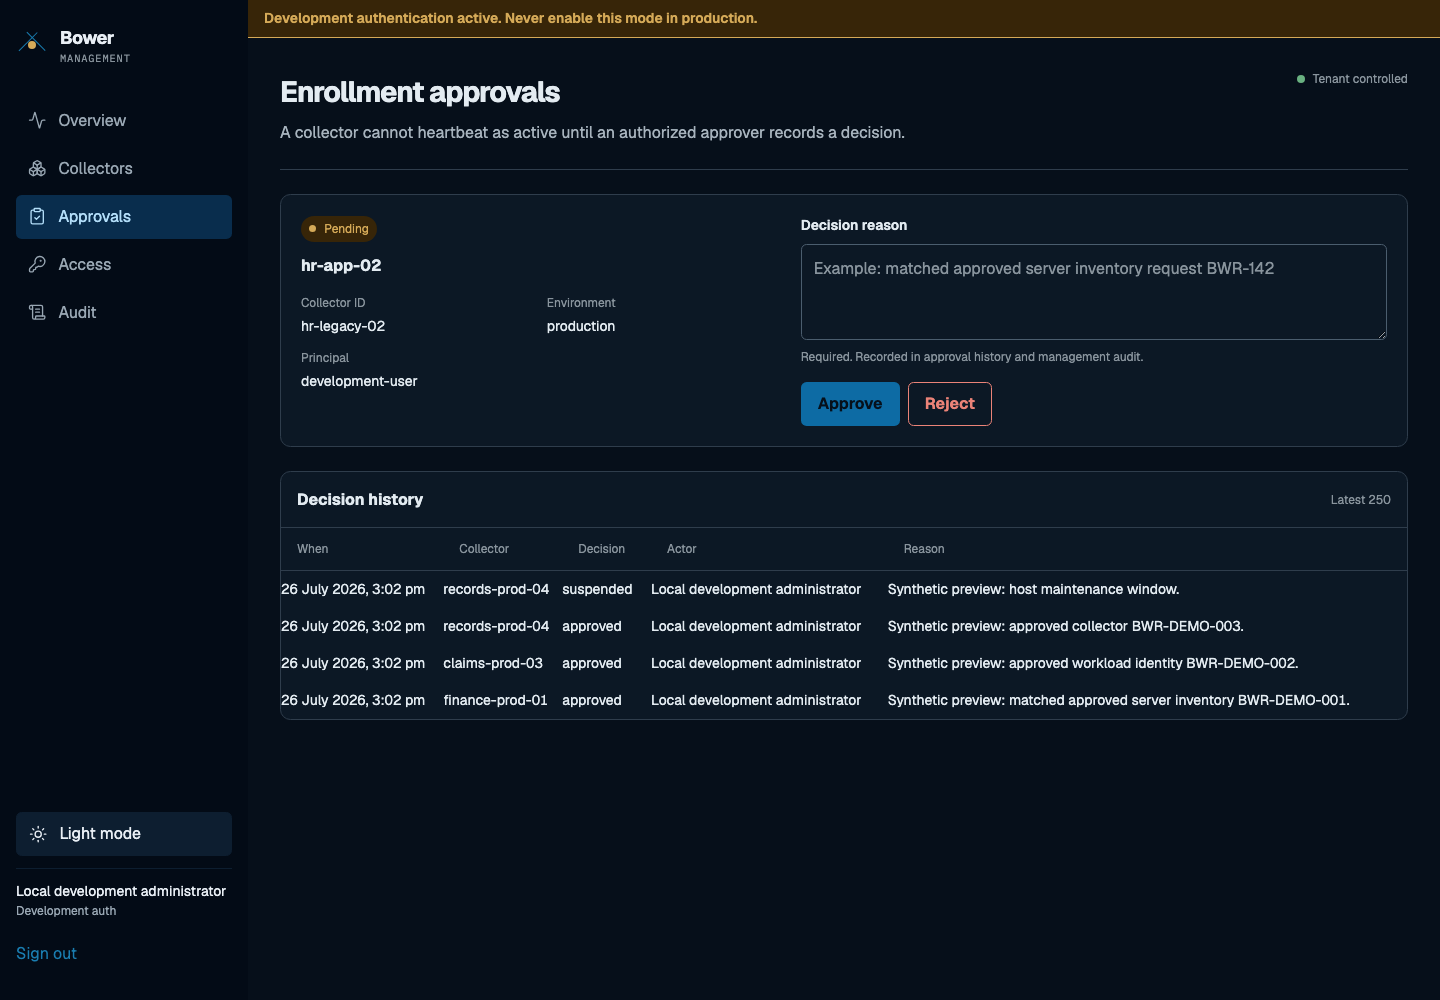
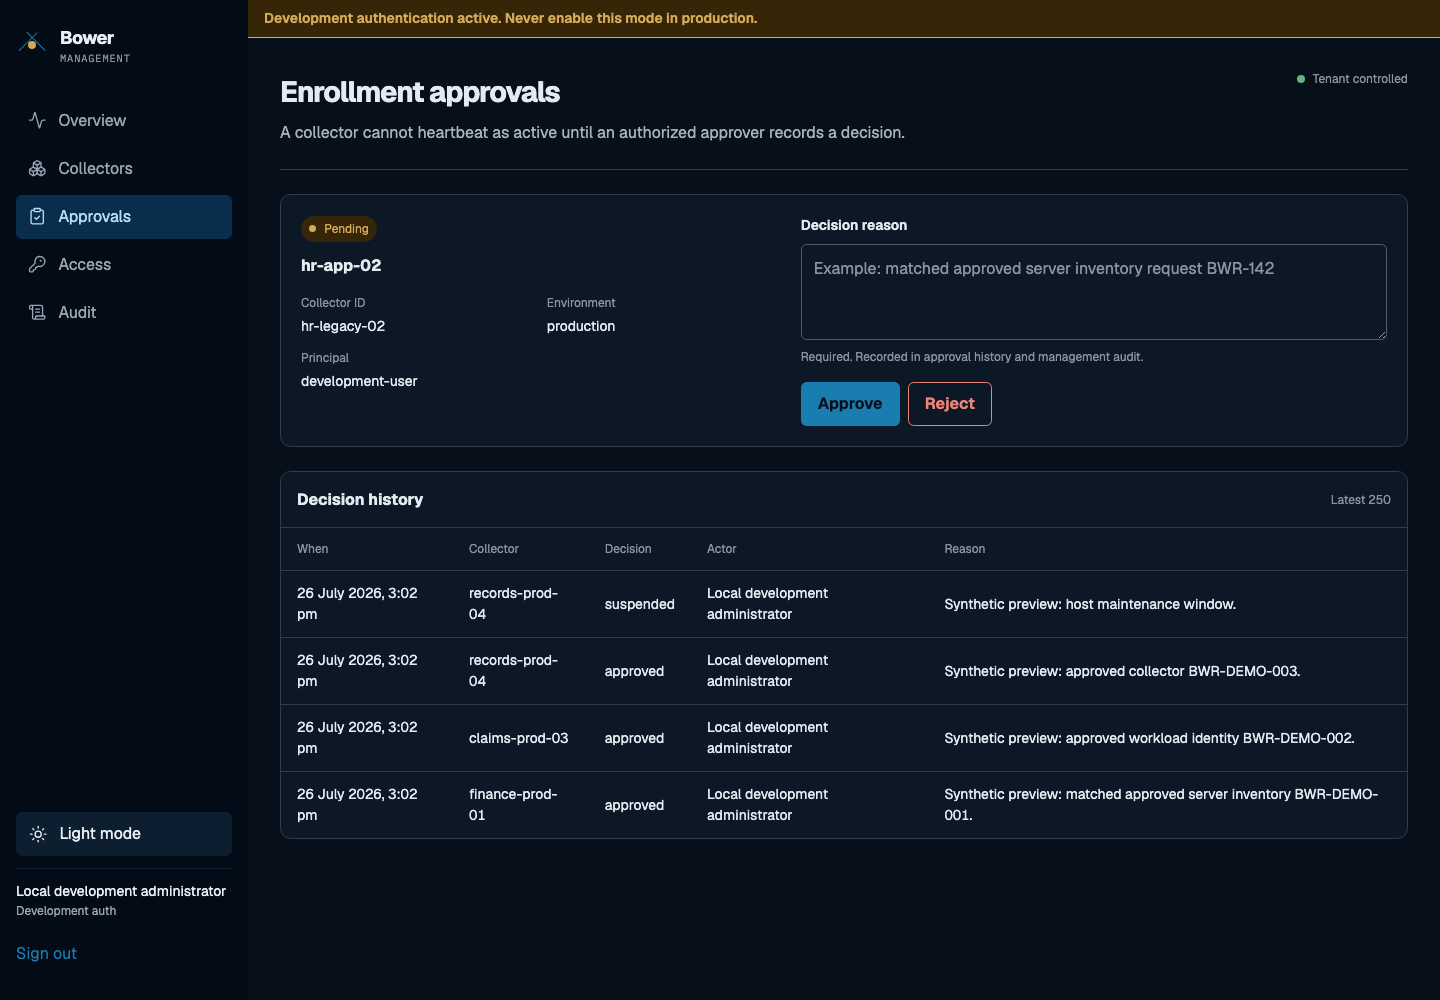
docs: showcase management console

diff --git a/ui/Bower.Management.Web/e2e/screenshots.spec.ts b/ui/Bower.Management.Web/e2e/screenshots.spec.ts
@@ -7,6 +7,8 @@ test("capture polished desktop overview", async ({ page }, testInfo) => {
   test.skip(testInfo.project.name !== "readme-chromium");
   await page.goto("/");
   await expect(page.getByRole("heading", { name: "Fleet posture" })).toBeVisible();
+  await expect(page.getByText("claims-api-03")).toBeVisible();
+  await page.waitForLoadState("networkidle");
   await page.evaluate(() => document.fonts.ready);
   await page.screenshot({
     path: path.join(screenshotDirectory, "bower-management-overview.png"),
@@ -18,12 +20,19 @@ test("capture polished dark approvals view", async ({ page }, testInfo) => {
   test.skip(testInfo.project.name !== "readme-chromium");
   await page.goto("/approvals");
   await expect(page.getByRole("heading", { name: "hr-app-02" })).toBeVisible();
+  await expect(page.getByText("hr-legacy-02")).toBeVisible();
+  await page.waitForLoadState("networkidle");
   await page.getByRole("button", { name: "Dark mode" }).click();
   await expect(page.locator("html")).toHaveAttribute("data-theme", "dark");
+  await expect(page.getByRole("heading", { name: "hr-app-02" })).toBeVisible();
+  await expect(page.getByText("records-prod-04").first()).toBeVisible();
+  await expect(page.getByLabel("Loading")).toHaveCount(0);
+  await page.waitForTimeout(250);
   await page.evaluate(() => document.fonts.ready);
   await page.screenshot({
     path: path.join(screenshotDirectory, "bower-management-approvals-dark.png"),
-    fullPage: true
+    fullPage: true,
+    animations: "disabled"
   });
 });
 

diff --git a/README.md b/README.md
@@ -113,6 +113,26 @@ Bower includes a self-hosted React management console and ASP.NET Core API for:
 - management audit history;
 - Microsoft Entra ID SSO and app-role RBAC.
 
+![Bower Management fleet posture showing collector health, approval state, queue pressure and source coverage](docs/images/bower-management-overview.png)
+
+<table>
+  <tr>
+    <td width="72%">
+      <img src="docs/images/bower-management-approvals-dark.png" alt="Bower Management dark-mode enrollment approval flow with reasoned decisions and audit history">
+    </td>
+    <td width="28%">
+      <img src="docs/images/bower-management-mobile.png" alt="Bower Management responsive mobile navigation">
+    </td>
+  </tr>
+  <tr>
+    <td><sub>Reasoned collector approval and immutable decision history.</sub></td>
+    <td><sub>Responsive fleet navigation.</sub></td>
+  </tr>
+</table>
+
+Screenshots use synthetic fleet metadata from the loopback-only development
+preview. The production deployment requires Entra ID authentication.
+
 Entra security groups are assigned to Bower app roles. Group members receive the
 role in their access token, avoiding direct dependence on large or overage-prone
 group claims. The interactive roles are `Bower.Viewer`, `Bower.Operator`,
@@ -131,6 +151,10 @@ cp .env.example .env.local
 # Set VITE_BOWER_AUTH_MODE=development only for local development.
 npm ci
 npm run dev
+
+# Against a running management deployment:
+BOWER_UI_BASE_URL=http://127.0.0.1:4320 npm run test:e2e
+BOWER_UI_BASE_URL=http://127.0.0.1:4320 npm run screenshots
 ```
 
 Production Entra setup and collector identity flow:
